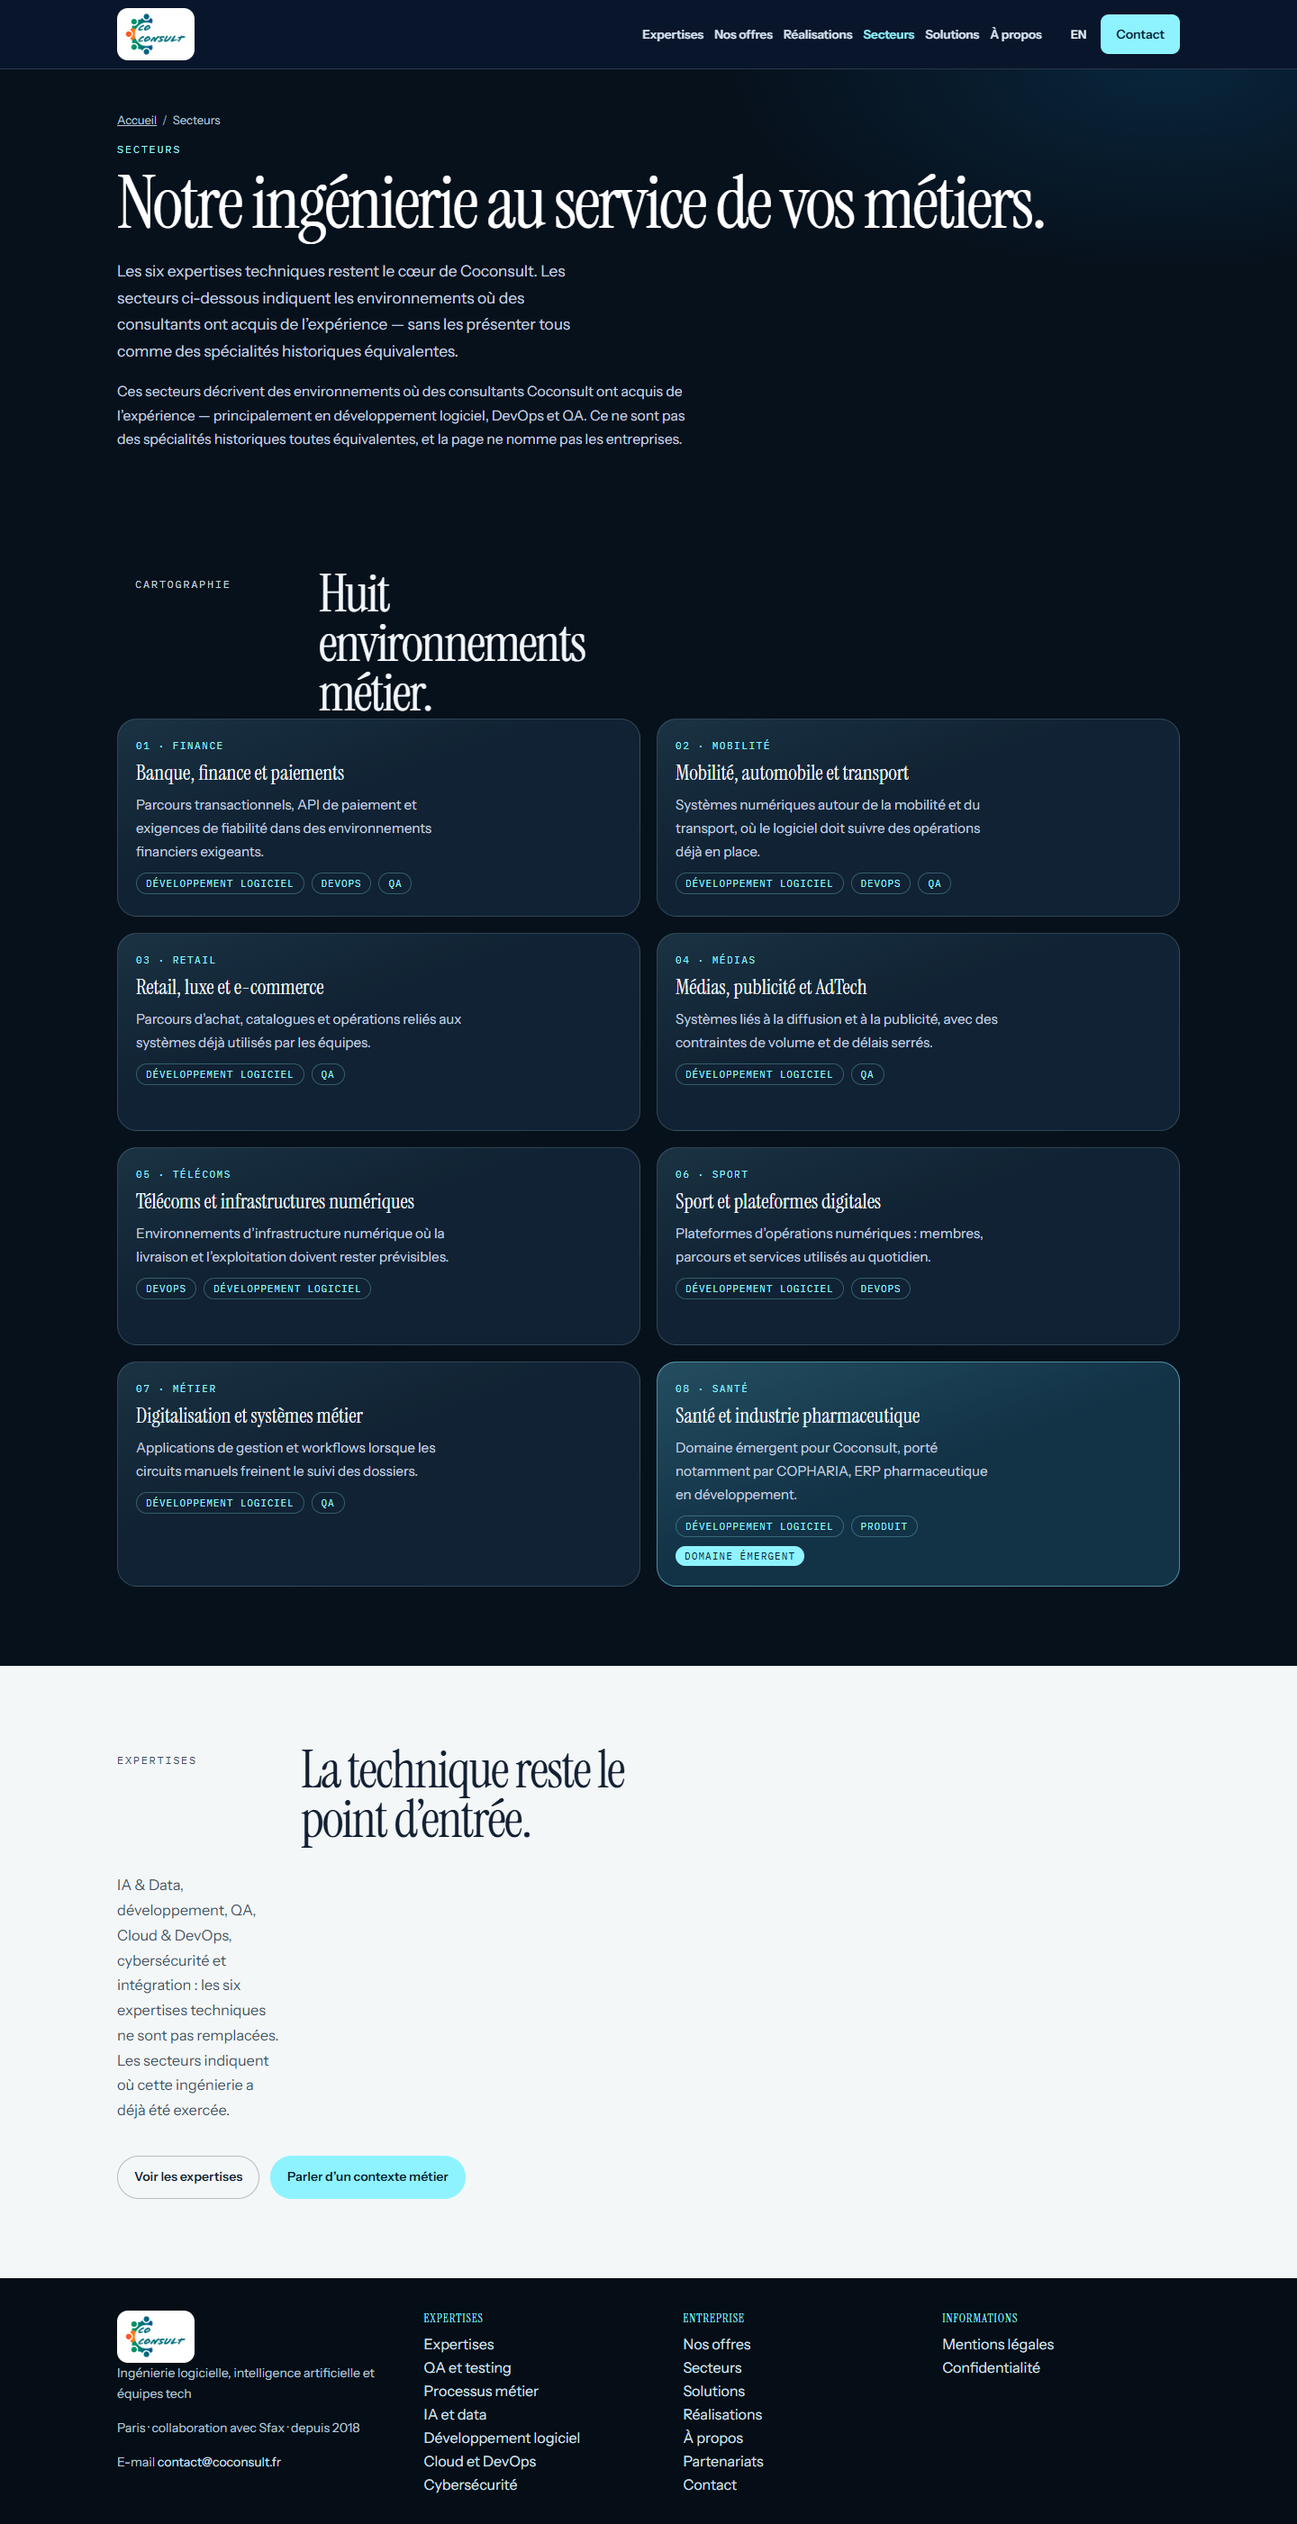
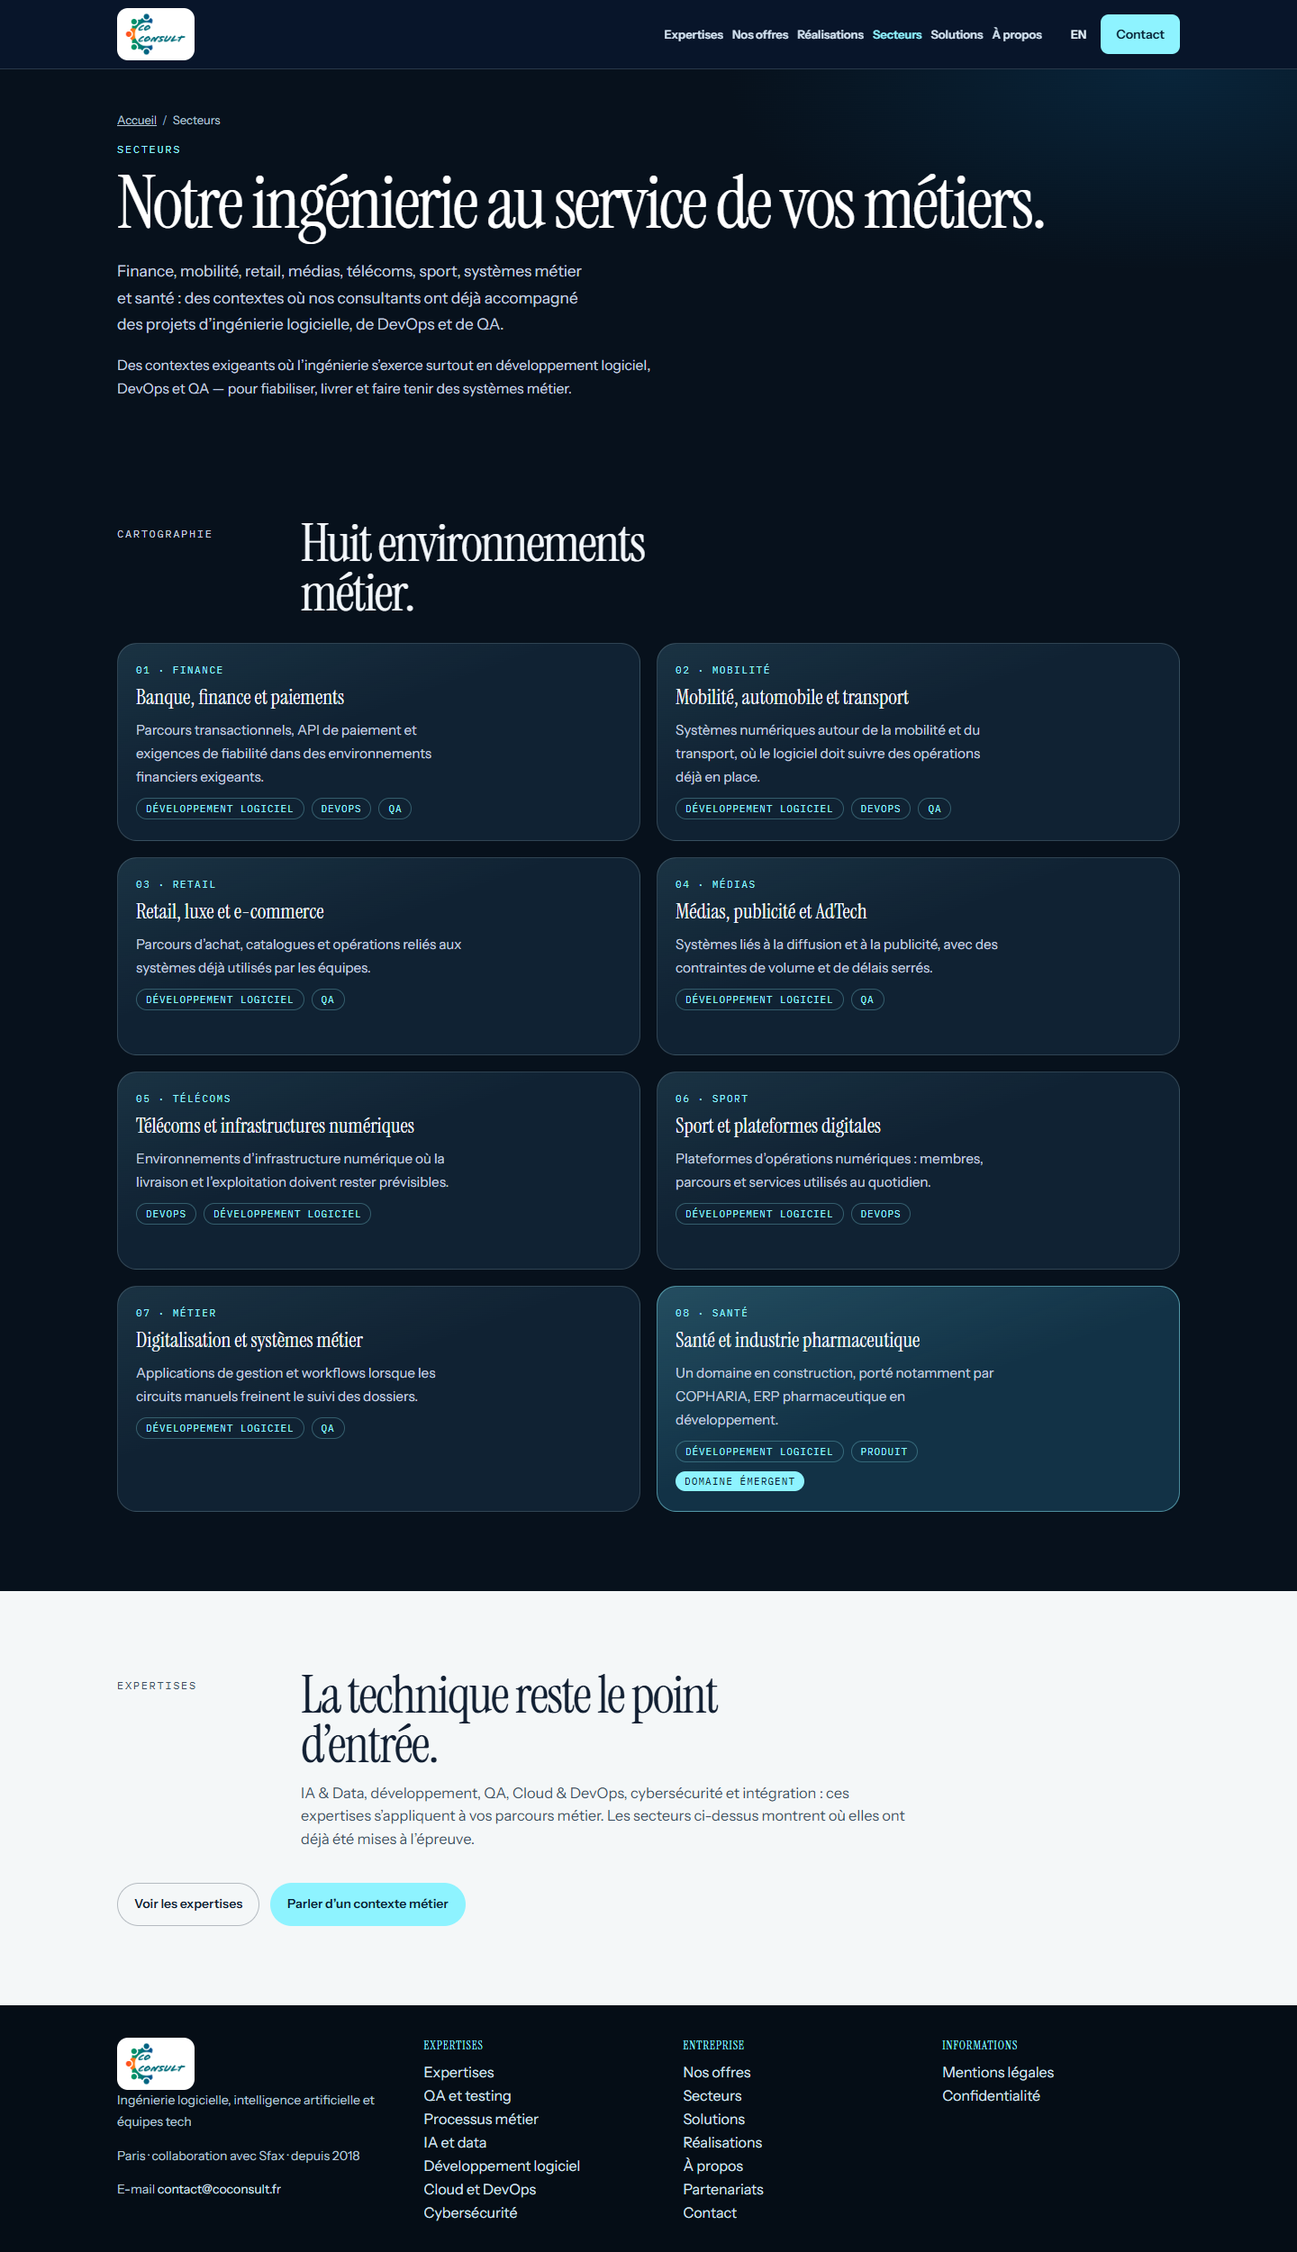
fix: polish V3.2 sector copy, layout and card navigation
Replace defensive editorial wording with client-facing copy, fix the sectors paper section column layout, and make sector page cards non-clickable while keeping homepage deep links.

diff --git a/tests/e2e.spec.ts b/tests/e2e.spec.ts
@@ -467,27 +467,69 @@ test('sectors page, homepage strip and payments keep FR/EN navigation without cl
   await expect(page.locator('#secteurs h2')).toContainText('Notre ingénierie au service de vos métiers');
   await expect(page.locator('#expertises')).toBeVisible();
   await expect(page.locator('.desktop-nav').getByRole('link', { name: 'Secteurs' })).toHaveAttribute('href', '/secteurs/');
+  await expect(page.locator('#secteurs a.sector-tile').first()).toHaveAttribute('href', /\/secteurs\/#/);
   await page.locator('#secteurs').getByRole('link', { name: 'Explorer les secteurs' }).click();
   await expect(page).toHaveURL(/\/secteurs\/$/);
   await expect(page.locator('h1')).toContainText('Notre ingénierie au service de vos métiers');
   await expect(page.locator('[data-sector]')).toHaveCount(8);
   await expect(page.locator('#pharma')).toContainText('Domaine émergent');
   await expect(page.locator('body')).not.toContainText(/Société Générale|BPCE|Wero|LVMH|Renault|IAPS|CSSForever/i);
+  await expect(page.locator('body')).not.toContainText(/sans remplacer|spécialités historiques|ne nomme pas|priorité commerciale|ne prétend pas/i);
 
   await page.locator('a.lang').click();
   await expect(page).toHaveURL(/\/en\/industries\/$/);
   await expect(page.locator('h1')).toContainText('Our engineering in the service of your industries');
   await expect(page.locator('.desktop-nav').getByRole('link', { name: 'Industries' })).toHaveAttribute('href', '/en/industries/');
+  await expect(page.locator('body')).not.toContainText(/without replacing|historic specialties|does not name|commercial priority|does not claim/i);
 
   await page.goto('/services/paiements/');
   await expect(page).toHaveURL(/\/services\/paiements\/$/);
   await expect(page.locator('h1')).toContainText('Fiabiliser les parcours de paiement');
   await expect(page.locator('body')).toContainText('API transactionnelles');
   await expect(page.locator('body')).toContainText('idempotence');
-  await expect(page.locator('body')).not.toContainText(/Wero|Société Générale|BRED/i);
+  await expect(page.locator('body')).not.toContainText(/Wero|Société Générale|BRED|priorité commerciale|ne prétend pas/i);
   await page.locator('a.lang').click();
   await expect(page).toHaveURL(/\/en\/services\/payments\/$/);
   await expect(page.locator('body')).toContainText('Transactional APIs');
+  await expect(page.locator('body')).not.toContainText(/commercial priority|does not claim|Wero/i);
+});
+
+test('sectors page paper section layout and cards are not self-links', async ({ page }) => {
+  for (const viewport of [
+    { width: 1440, height: 900 },
+    { width: 390, height: 844 },
+  ]) {
+    await page.setViewportSize(viewport);
+    await page.goto('/secteurs/');
+    const entry = page.locator('[data-sectors-entry]');
+    await expect(entry.locator('.section-copy .lede-soft')).toBeVisible();
+    const copyBox = await entry.locator('.section-copy').boundingBox();
+    const textBox = await entry.locator('.section-copy .lede-soft').boundingBox();
+    expect(copyBox, `copy ${viewport.width}`).not.toBeNull();
+    expect(textBox, `text ${viewport.width}`).not.toBeNull();
+    expect(textBox!.width, `text width ${viewport.width}`).toBeGreaterThan(viewport.width >= 1440 ? 420 : 260);
+    expect(Math.abs(textBox!.x - copyBox!.x), `text aligned ${viewport.width}`).toBeLessThan(8);
+
+    const gridHead = page.locator('.sectors-grid-head');
+    const matrix = page.locator('[data-sector-matrix]');
+    const headBox = await gridHead.boundingBox();
+    const matrixBox = await matrix.boundingBox();
+    expect(headBox).not.toBeNull();
+    expect(matrixBox).not.toBeNull();
+    expect(matrixBox!.y - (headBox!.y + headBox!.height)).toBeGreaterThanOrEqual(20);
+
+    await expect(page.locator('[data-sector-matrix] a.sector-tile')).toHaveCount(0);
+    await expect(page.locator('[data-sector-matrix] article.sector-tile')).toHaveCount(8);
+    for (const tile of await page.locator('[data-sector-matrix] article.sector-tile').all()) {
+      const href = await tile.getAttribute('href');
+      expect(href).toBeNull();
+    }
+  }
+
+  await page.setViewportSize({ width: 1440, height: 900 });
+  await page.goto('/en/industries/');
+  await expect(page.locator('[data-sector-matrix] a.sector-tile')).toHaveCount(0);
+  await expect(page.locator('[data-sectors-entry] .section-copy .lede-soft')).toBeVisible();
 });
 
 test('v3.2 screenshots for sectors desktop and mobile', async ({ page }) => {
@@ -497,11 +539,15 @@ test('v3.2 screenshots for sectors desktop and mobile', async ({ page }) => {
   await page.locator('#secteurs').screenshot({ path: `${dir}/01-home-sectors-1440.png` });
   await page.goto('/secteurs/');
   await page.screenshot({ path: `${dir}/02-secteurs-1440.png`, fullPage: true });
+  await page.locator('[data-sectors-entry]').screenshot({ path: `${dir}/06-secteurs-entry-1440.png` });
+  await page.goto('/en/industries/');
+  await page.screenshot({ path: `${dir}/07-industries-1440.png`, fullPage: true });
   await page.goto('/services/paiements/');
   await page.screenshot({ path: `${dir}/03-paiements-1440.png`, fullPage: true });
   await page.setViewportSize({ width: 390, height: 844 });
   await page.goto('/secteurs/');
   await page.screenshot({ path: `${dir}/04-secteurs-390.png`, fullPage: true });
+  await page.locator('[data-sectors-entry]').screenshot({ path: `${dir}/08-secteurs-entry-390.png` });
   await page.goto('/');
   await page.locator('#secteurs').screenshot({ path: `${dir}/05-home-sectors-390.png` });
 });

diff --git a/src/content/fr.ts b/src/content/fr.ts
@@ -340,11 +340,11 @@ export const pages: Record<RouteKey, PageContent> = {
     eyebrow: 'PAIEMENTS',
     h1: 'Fiabiliser les parcours de paiement et les API qui les portent.',
     intro:
-      'Priorité commerciale de Coconsult : concevoir et intégrer des parcours transactionnels dans des applications existantes — appels à un prestataire, statuts, reprises et supervision — avec une expérience acquise en environnements bancaires et financiers.',
+      'Concevoir et intégrer des parcours transactionnels dans des applications existantes : appels à un prestataire, statuts, reprises et supervision, avec une expérience acquise en environnements bancaires et financiers.',
     blocks: [
       {
         type: 'columns',
-        title: 'Expériences techniques pertinentes',
+        title: 'Ce que nous traitons',
         items: [
           { title: 'Systèmes de paiement', text: 'Parcours de paiement branchés sur des backends déjà en production, sans réécrire tout l’existant.' },
           { title: 'API transactionnelles', text: 'Contrats d’API, références uniques, lecture de statut et enchaînement des étapes métier.' },
@@ -356,7 +356,7 @@ export const pages: Record<RouteKey, PageContent> = {
       },
       {
         type: 'columns',
-        title: 'Problèmes traités au quotidien',
+        title: 'Problèmes clients fréquents',
         items: [
           { title: 'Double débit ou double appel', text: 'Clés d’idempotence et règles de rejeu lorsque la même demande revient.' },
           { title: 'Timeouts ambigus', text: 'Un délai dépassé n’est pas un échec certain. Le parcours doit pouvoir interroger un statut et reprendre proprement.' },
@@ -373,13 +373,6 @@ export const pages: Record<RouteKey, PageContent> = {
           { title: 'Contrôle', text: 'Montant, référence unique, délai maximal et règle si la même demande revient.' },
           { title: 'Prestataire', text: 'Appel d’API, puis lecture du statut : accepté, refusé, en attente ou inconnu.' },
           { title: 'Exploitation', text: 'Journal, alerte et rapprochement avec vos opérations, selon les données que vous pouvez légitimement conserver.' },
-        ],
-      },
-      {
-        type: 'prose',
-        title: 'Ce que cette page ne prétend pas',
-        paragraphs: [
-          'Coconsult n’est pas présentée ici comme propriétaire, partenaire officiel ou concepteur d’un schéma de paiement instantané nommé. Les missions se discutent à partir de votre parcours et de vos contraintes, sans référence nominative non autorisée.',
         ],
       },
       {
@@ -490,7 +483,7 @@ export const pages: Record<RouteKey, PageContent> = {
     eyebrow: 'SECTEURS',
     h1: 'Notre ingénierie au service de vos métiers.',
     intro:
-      'Les six expertises techniques restent le cœur de Coconsult. Les secteurs ci-dessous indiquent les environnements où des consultants ont acquis de l’expérience — sans les présenter tous comme des spécialités historiques équivalentes.',
+      'Finance, mobilité, retail, médias, télécoms, sport, systèmes métier et santé : des contextes où nos consultants ont déjà accompagné des projets d’ingénierie logicielle, de DevOps et de QA.',
     blocks: [],
   },
   solutions: {

diff --git a/src/content/en.ts b/src/content/en.ts
@@ -291,11 +291,11 @@ export const pages: Record<RouteKey, PageContent> = {
     eyebrow: 'PAYMENTS',
     h1: 'Make payment flows and the APIs behind them dependable.',
     intro:
-      'A commercial priority for Coconsult: design and integrate transaction journeys into existing applications — provider calls, statuses, retries and supervision — with experience gained in banking and financial environments.',
+      'Design and integrate transaction journeys into existing applications: provider calls, statuses, retries and supervision, with experience gained in banking and financial environments.',
     blocks: [
       {
         type: 'columns',
-        title: 'Relevant technical experience',
+        title: 'What we work on',
         items: [
           { title: 'Payment systems', text: 'Payment journeys wired into backends already in production, without rewriting the whole estate.' },
           { title: 'Transactional APIs', text: 'API contracts, unique references, status reads and sequenced business steps.' },
@@ -307,7 +307,7 @@ export const pages: Record<RouteKey, PageContent> = {
       },
       {
         type: 'columns',
-        title: 'Day-to-day problems we work on',
+        title: 'Frequent client problems',
         items: [
           { title: 'Duplicate charges or duplicate calls', text: 'Idempotency keys and replay rules when the same request returns.' },
           { title: 'Ambiguous timeouts', text: 'A timeout is not automatically a failure. The flow has to read a status and continue cleanly.' },
@@ -324,13 +324,6 @@ export const pages: Record<RouteKey, PageContent> = {
           { title: 'Control', text: 'Amount, unique reference, maximum wait and the rule if the same request returns.' },
           { title: 'Provider', text: 'An API call, then a status: accepted, declined, pending or unknown.' },
           { title: 'Operations', text: 'Logs, alerts and reconciliation with your operations, using only data you can legitimately keep.' },
-        ],
-      },
-      {
-        type: 'prose',
-        title: 'What this page does not claim',
-        paragraphs: [
-          'Coconsult is not presented here as the owner, official partner or designer of a named instant-payment scheme. Engagements start from your journey and constraints, without unauthorised named references.',
         ],
       },
       {
@@ -441,7 +434,7 @@ export const pages: Record<RouteKey, PageContent> = {
     eyebrow: 'INDUSTRIES',
     h1: 'Our engineering in the service of your industries.',
     intro:
-      'The six technical expertises remain Coconsult’s core. The industries below show environments where consultants have built experience — without presenting them all as historic specialties of equal weight.',
+      'Finance, mobility, retail, media, telecom, sports, business systems and healthcare: contexts where our consultants have already supported software engineering, DevOps and QA projects.',
     blocks: [],
   },
   solutions: {

diff --git a/src/styles/experience.css b/src/styles/experience.css
@@ -266,13 +266,26 @@ h1 .accent, .display .accent { display: block; font-style: italic; color: var(--
 .section { padding: 88px 28px; }
 .section-head {
   display: grid;
-  grid-template-columns: 180px 1fr;
+  grid-template-columns: 180px minmax(0, 1fr);
   gap: 24px;
   max-width: var(--max);
   margin: 0 auto 36px;
+  align-items: start;
 }
 .section h2 { font-size: clamp(2.6rem, 4vw, 4.2rem); max-width: 14ch; }
+.section-head .section-copy h2 { max-width: 18ch; }
 .section-head p { margin: 8px 0 0; max-width: 42ch; color: var(--muted); }
+.section-head .section-copy {
+  min-width: 0;
+  display: flex;
+  flex-direction: column;
+  gap: 14px;
+}
+.section-head .section-copy > :first-child { margin-top: 0; }
+.section-head .section-copy .lede-soft {
+  margin: 0;
+  max-width: min(62ch, 100%);
+}
 .paper { background: var(--paper); color: var(--paper-ink); }
 .paper .section-head p, .paper .muted { color: var(--paper-muted); }
 .paper .eyebrow { color: #0b6f86; }
@@ -679,6 +692,7 @@ h1 .accent, .display .accent { display: block; font-style: italic; color: var(--
   margin: 12px 0 0;
   color: var(--muted);
   font-size: 1.02rem;
+  line-height: 1.55;
 }
 .paper .lede-soft { color: var(--paper-muted); }
 .sectors-note {
@@ -687,6 +701,8 @@ h1 .accent, .display .accent { display: block; font-style: italic; color: var(--
   color: var(--muted);
   font-size: 0.98rem;
 }
+.sectors-grid-head { margin-bottom: 28px; }
+.sectors-page .sector-matrix-page { margin-top: 8px; }
 .sector-matrix { max-width: var(--max); margin: 0 auto; }
 .sector-grid {
   display: grid;
@@ -774,6 +790,16 @@ h1 .accent, .display .accent { display: block; font-style: italic; color: var(--
 .sector-matrix-home .sector-tile { min-height: 118px; }
 .sector-matrix-page .sector-grid { grid-template-columns: repeat(2, minmax(0, 1fr)); gap: 18px; }
 .sector-matrix-page .sector-tile { min-height: 220px; padding: 22px 20px; }
+.sector-matrix-page article.sector-tile { cursor: default; }
+.sector-matrix-page article.sector-tile:hover,
+.sector-matrix-page article.sector-tile:focus-visible {
+  transform: none;
+  border-color: var(--line);
+}
+.sector-matrix-page article.sector-tile.emerging:hover,
+.sector-matrix-page article.sector-tile.emerging:focus-visible {
+  border-color: rgba(142, 243, 255, 0.45);
+}
 .sector-more {
   display: flex;
   flex-wrap: wrap;
@@ -782,7 +808,7 @@ h1 .accent, .display .accent { display: block; font-style: italic; color: var(--
   max-width: var(--max);
 }
 .sectors-page .page-hero { padding-bottom: 12px; }
-.container-narrow { max-width: var(--max); margin: 0 auto; padding: 0 20px; }
+.sectors-page [data-sectors-entry] .section-head { margin-bottom: 28px; }
 
 @media (max-width: 1024px) {
   .sector-grid { grid-template-columns: repeat(2, minmax(0, 1fr)); }

diff --git a/src/data/sectors.ts b/src/data/sectors.ts
@@ -156,8 +156,8 @@ export const sectors: SectorItem[] = [
       en: 'Healthcare and pharmaceuticals',
     },
     summary: {
-      fr: 'Domaine émergent pour Coconsult, porté notamment par COPHARIA, ERP pharmaceutique en développement.',
-      en: 'An emerging domain for Coconsult, notably through COPHARIA, a pharmaceutical ERP in development.',
+      fr: 'Un domaine en construction, porté notamment par COPHARIA, ERP pharmaceutique en développement.',
+      en: 'A domain being built out, notably through COPHARIA, a pharmaceutical ERP in development.',
     },
     angles: {
       fr: ['Développement logiciel', 'Produit'],
